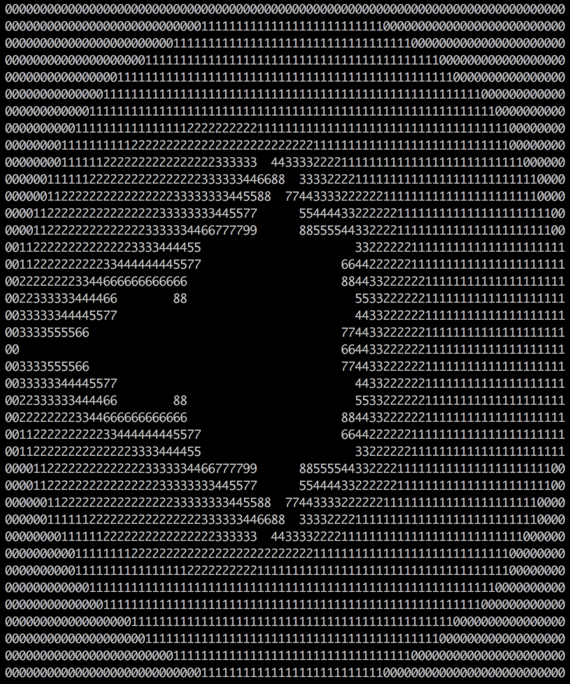
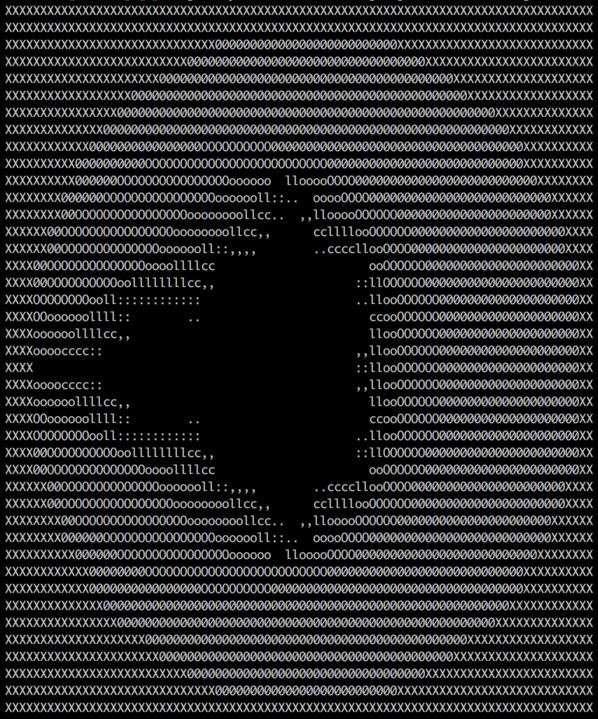
Refactor go mandelbrot

diff --git a/go/mandelbrot.go b/go/mandelbrot.go
@@ -1,24 +1,20 @@
 package main
+import ("fmt"; "strings"; "math/cmplx")
 
-import "fmt"
-import "math/cmplx"
+func iterations(z0 complex128, c int) int {
+  z := z0
+  for cmplx.Abs(z) < 2 && c > 0 {
+	z = z * z + z0
+	c--
+  }
+  return c
+}
 
 func main() {
-  for b := -2.; b < 2.; b += 0.1 {
-    for a := -2.; a < 2.; a += 0.1 {
-      z0 := complex(a, b)
-      z := z0
-      c := 0
-      for cmplx.Abs(z) < 2 && c < 10 {
-        z = z * z + z0
-        c++
-      }
-      if c < 10 {
-        fmt.Printf("%d%d", c, c)
-      } else {
-        fmt.Printf("  ")
-      }
+  for b := -2.1; b < 2.1; b += 0.1 {
+    for a := -2.1; a < 2.1; a += 0.1 {
+	  fmt.Printf(strings.Repeat(string(" .,:cloO0X"[iterations(complex(a, b), 9)]), 2))
     }
-    fmt.Println("")
+    fmt.Println()
   }
 }
